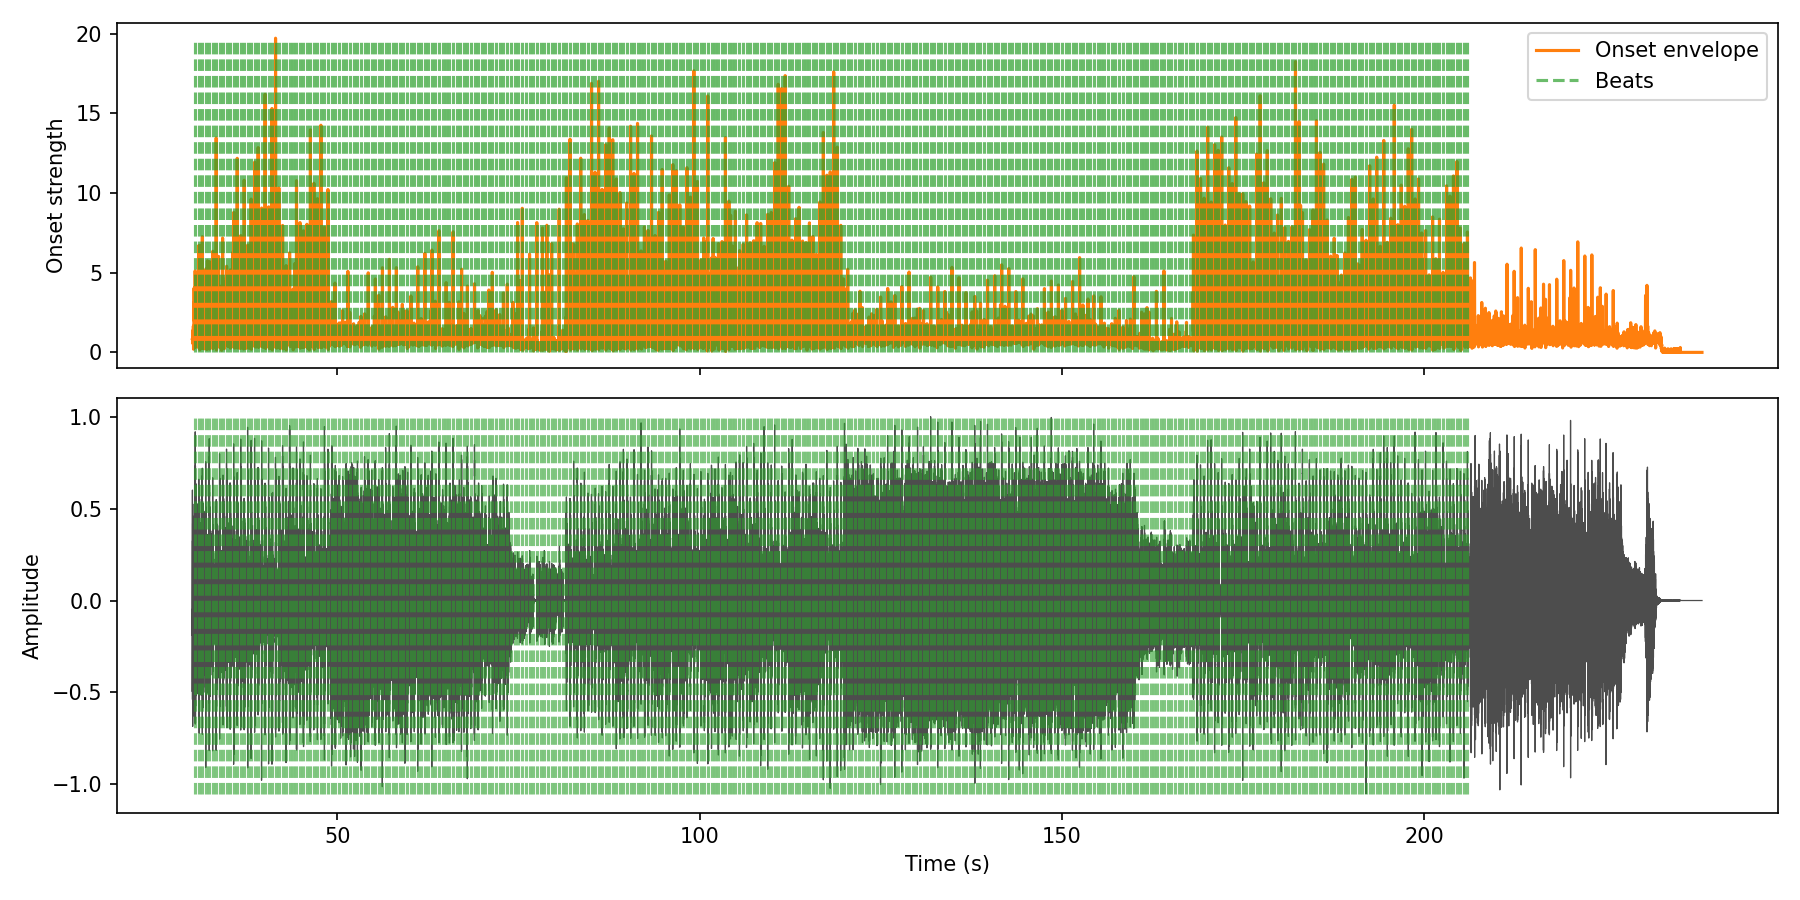
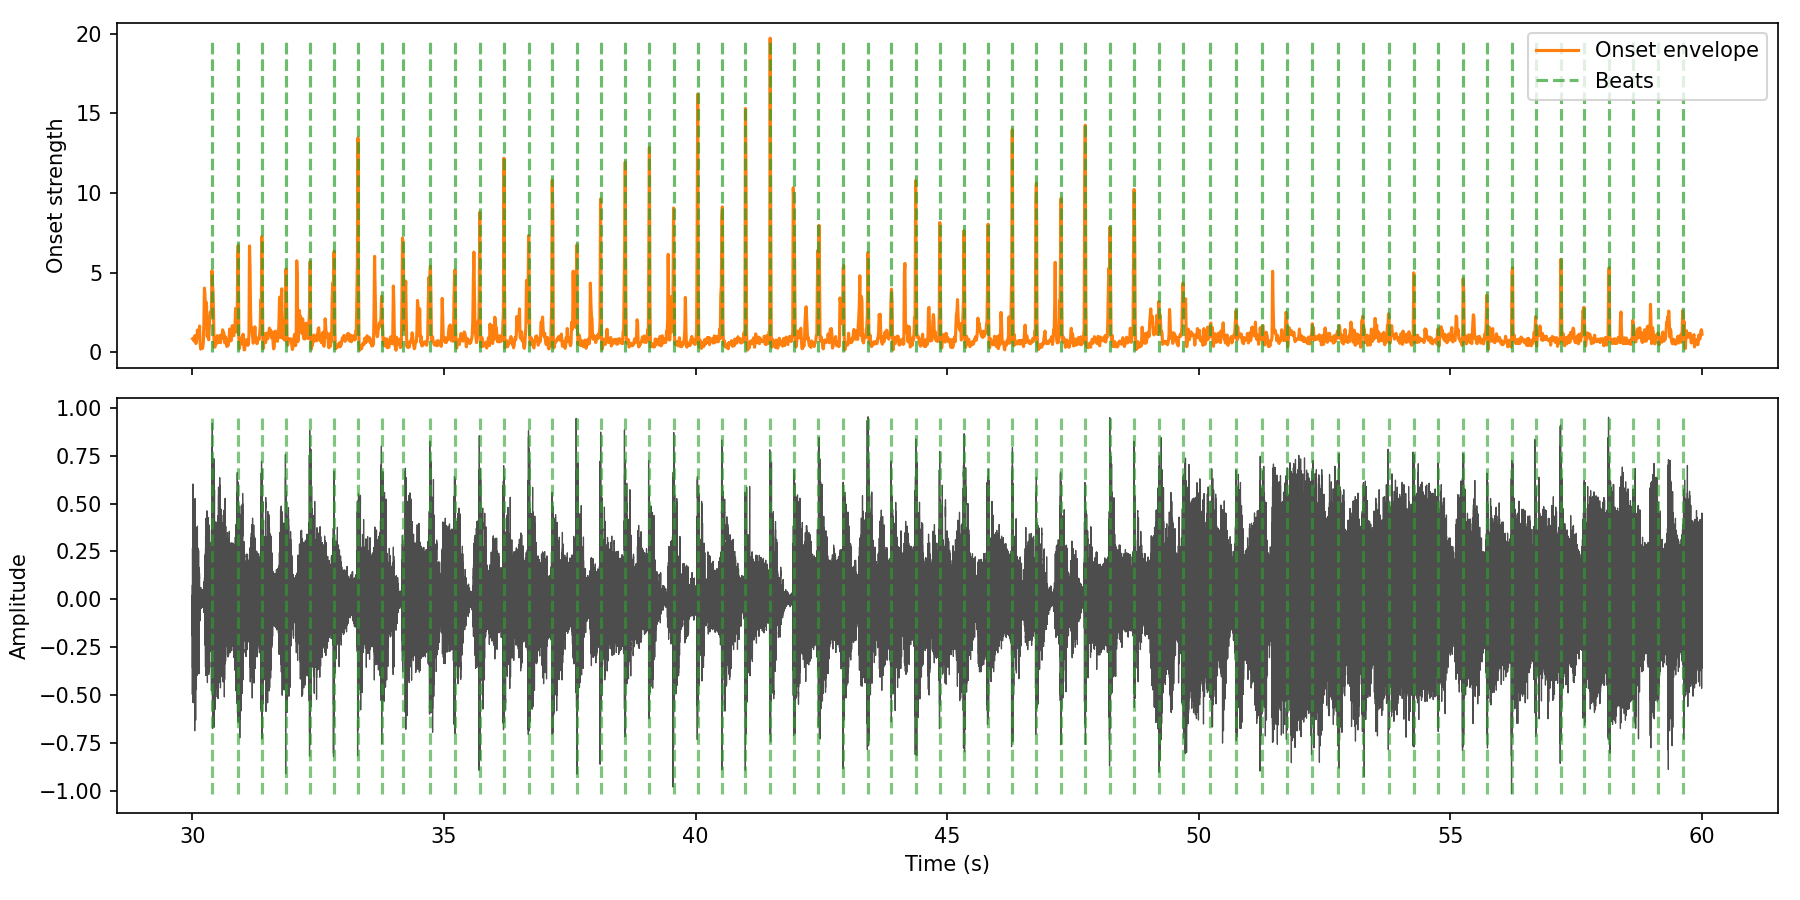
Refactor BPM handling: rename BPM to tempo in wave class and update related functions; add test script for audio processing and plotting

diff --git a/preprocessing.py b/preprocessing.py
@@ -42,21 +42,21 @@ def BPM_preprocssing(song, cadence, dt=0.5, W=5, alpha = 0.2, beta = 0.4, dr = 0
         current_time = t[n]
         
         if (current_time < W): # Init - use global SPM
-            SPM = cadence.BPM
-            r = SPM / song.BPM
+            SPM = cadence.tempo
+            r = SPM / song.tempo
             
         else:
             start_idx = clip(time_to_samples(current_time - W, sr), 0, N) 
             stop_idx = clip(time_to_samples(current_time, sr), 0, N) 
 
-            start_idx = clip(start_idx, 0, N)
+            #NO need? start_idx = clip(start_idx, 0, N)
 
             cadence_signal_chunk = (cadence.signal)[start_idx:stop_idx] # Get the chunk from the cadence signal
             SPM_tilde, _  = beat_track(y=cadence_signal_chunk, sr=sr, hop_length=cadence.hop_length)
             # Check double time - Helper function
             SPM = alpha * SPM_tilde + (1 - alpha) * SPM
         
-            r_tilde = SPM / song.BPM
+            r_tilde = SPM / song.tempo
             r_tilde = clip(r_tilde, r_min, r_max)
 
             r_prev = r

diff --git a/oop.py b/oop.py
@@ -9,10 +9,10 @@ class wave:
         self.signal = None 
         self.sr = sr
         self.beats = None 
-        self.BPM = None
+        self.tempo = None
         self.hop_length = hop_length
-        self.length = None
-        self.sample_length = None
+        self.length = None # In Seconds
+        self.sample_length = None # In Samples
         self.r_list=[]
 
     def load(self):
@@ -31,7 +31,7 @@ class wave:
         # Convert beat frames to time (in seconds)
         self.beats = self.hop_length * beat_frames / self.sr
         
-        self.BPM = tempo
+        self.tempo = tempo
 
     def add_clicks(self, magnitude=10, click_ms = 2, click_decay = 4):
         # Convert time of beats to impulse array

diff --git a/test.py b/test.py
@@ -1,0 +1,20 @@
+from oop import wave
+from plotter import plot_audio_onsets_beats
+from scipy.io.wavfile import write
+import numpy as np
+
+# Get audio instance, extract beats
+path = "Songs/Seven Nation Army.mp3"
+song = wave(path)
+song.extract()
+
+## Tests ----------------------------------------------------------## 
+
+### --- Test block 1: Plot beats => FAIL : Beats stop at 206 sec ###
+## Plot onset envelope and beats between 30s and 60s
+plot_audio_onsets_beats(song, start=30.0, end=60.0, save_path="Plots/seven_nation_onsets.png")
+
+### --- Test block 2: Clicks Audio => PASS###
+## Add clicks on beats and save to WAV
+clicks = song.add_clicks()
+write("clicks.wav", song.sr, clicks)

diff --git a/main.py b/main.py
@@ -8,13 +8,3 @@ path = "Songs/Seven Nation Army.mp3"
 song = wave(path)
 song.extract()
 
-## Tests ----------------------------------------------------------## 
-
-### --- Test block 1: Plot beats => FAIL : Beats stop at 206 sec ###
-## Plot onset envelope and beats between 30s and 60s
-#plot_audio_onsets_beats(song, start=30.0, end=60.0, save_path="Plots/seven_nation_onsets.png")
-
-### --- Test block 2: Clicks Audio => PASS###
-## Add clicks on beats and save to WAV
-#clicks = song.add_clicks()
-#write("clicks.wav", song.sr, clicks)

diff --git a/test_bpm.py b/test_bpm.py
@@ -83,8 +83,8 @@ def run_constant_bpm_test():
         BPM_preprocssing(song_obj, cadence_obj, dt=dt)
         
         # 5. Analyze Results
-        print(f"Librosa detected Song BPM: {song_obj.BPM:.2f}")
-        print(f"Librosa detected Run BPM: {cadence_obj.BPM:.2f}")
+        print(f"Librosa detected Song BPM: {song_obj.tempo:.2f}")
+        print(f"Librosa detected Run BPM: {cadence_obj.tempo:.2f}")
 
         # Ignore first 5 seconds 
         start_index = int(5.0 / dt)
